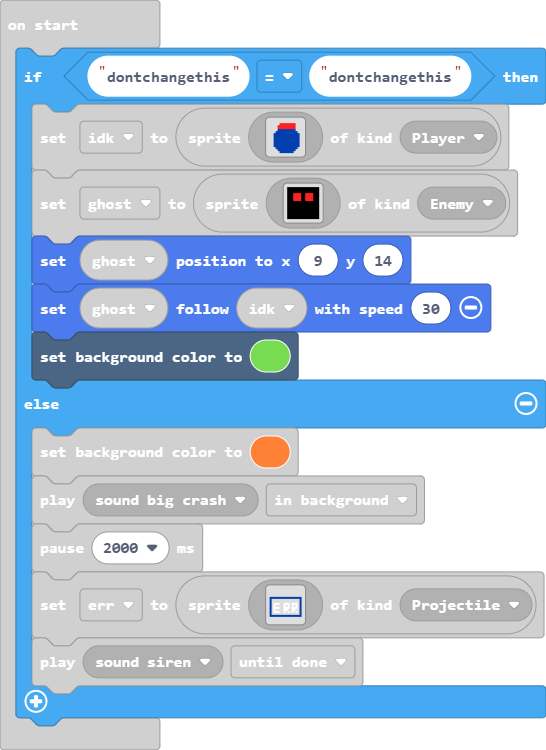
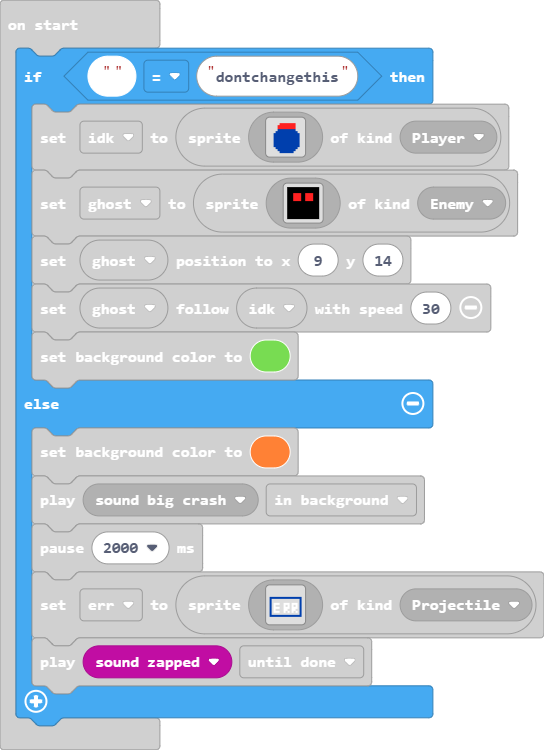
Update main.blocks, main.ts

diff --git a/main.ts b/main.ts
@@ -7,7 +7,7 @@ sprites.onOverlap(SpriteKind.Player, SpriteKind.Enemy, function (sprite, otherSp
 let err: Sprite = null
 let ghost: Sprite = null
 let idk: Sprite = null
-if ("dontchangethis" == "dontchangethis") {
+if (("" as any) == ("dontchangethis" as any)) {
     idk = sprites.create(img`
         . . . . . . . . . . . . . . . . 
         . . . . . 2 2 2 2 2 2 2 2 . . . 
@@ -69,7 +69,7 @@ if ("dontchangethis" == "dontchangethis") {
         . . . . . . . . . . . . . . . . 
         . . . . . . . . . . . . . . . . 
         `, SpriteKind.Projectile)
-    music.play(music.melodyPlayable(music.siren), music.PlaybackMode.UntilDone)
+    music.play(music.melodyPlayable(music.zapped), music.PlaybackMode.UntilDone)
 }
 game.onUpdateInterval(5000, function () {
 	
